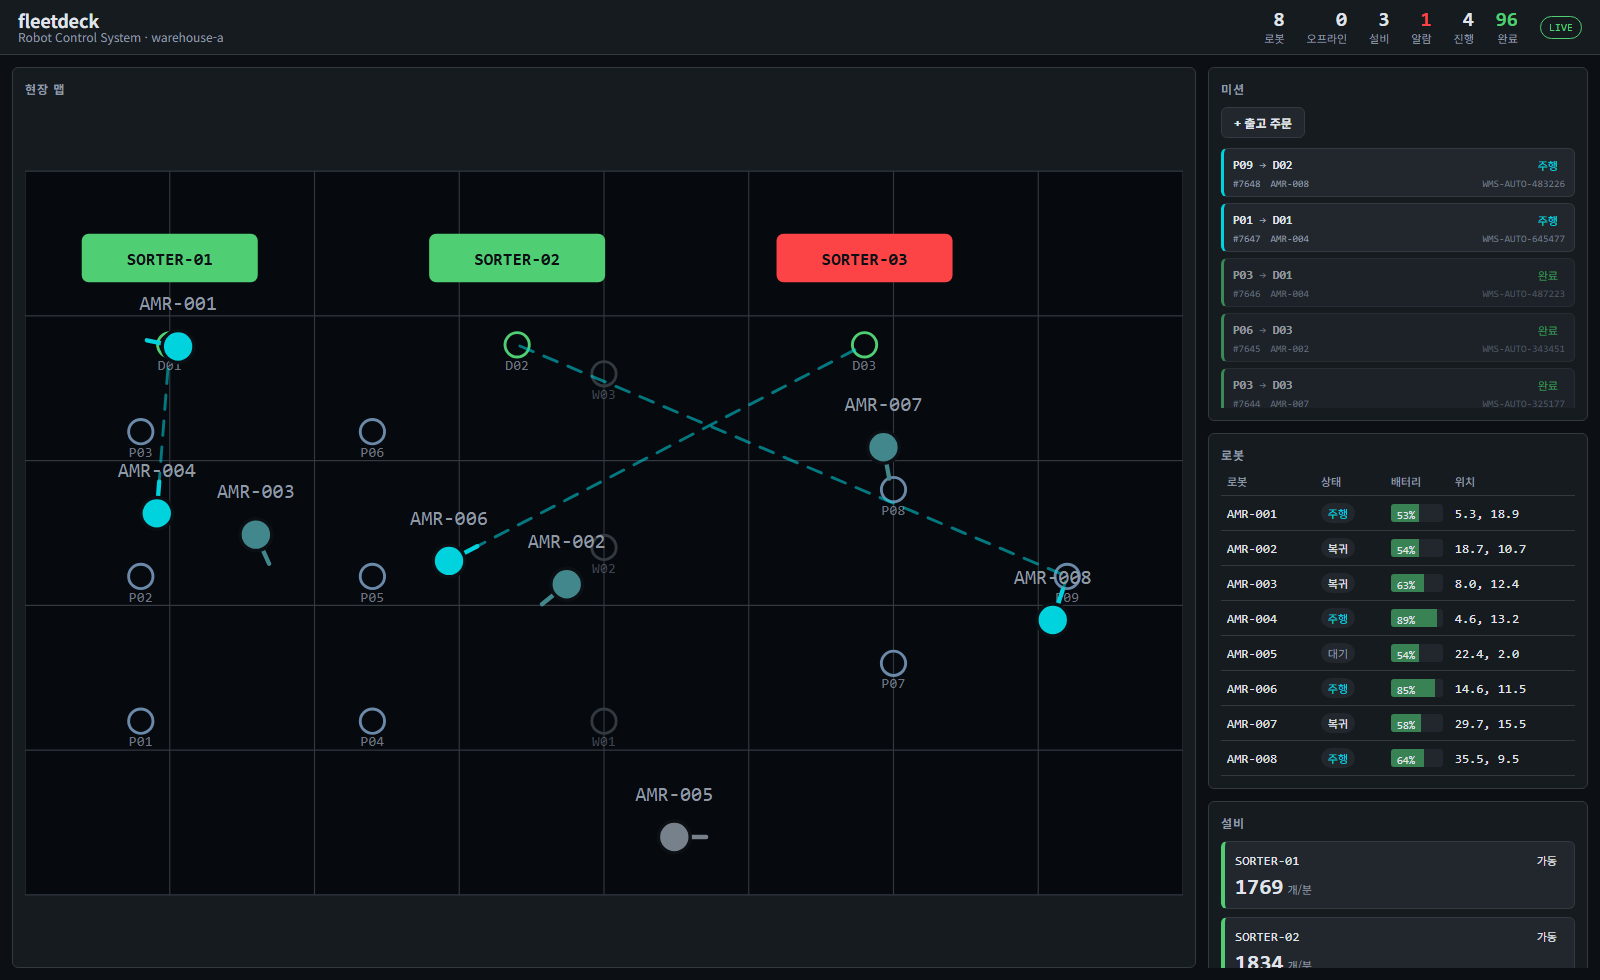
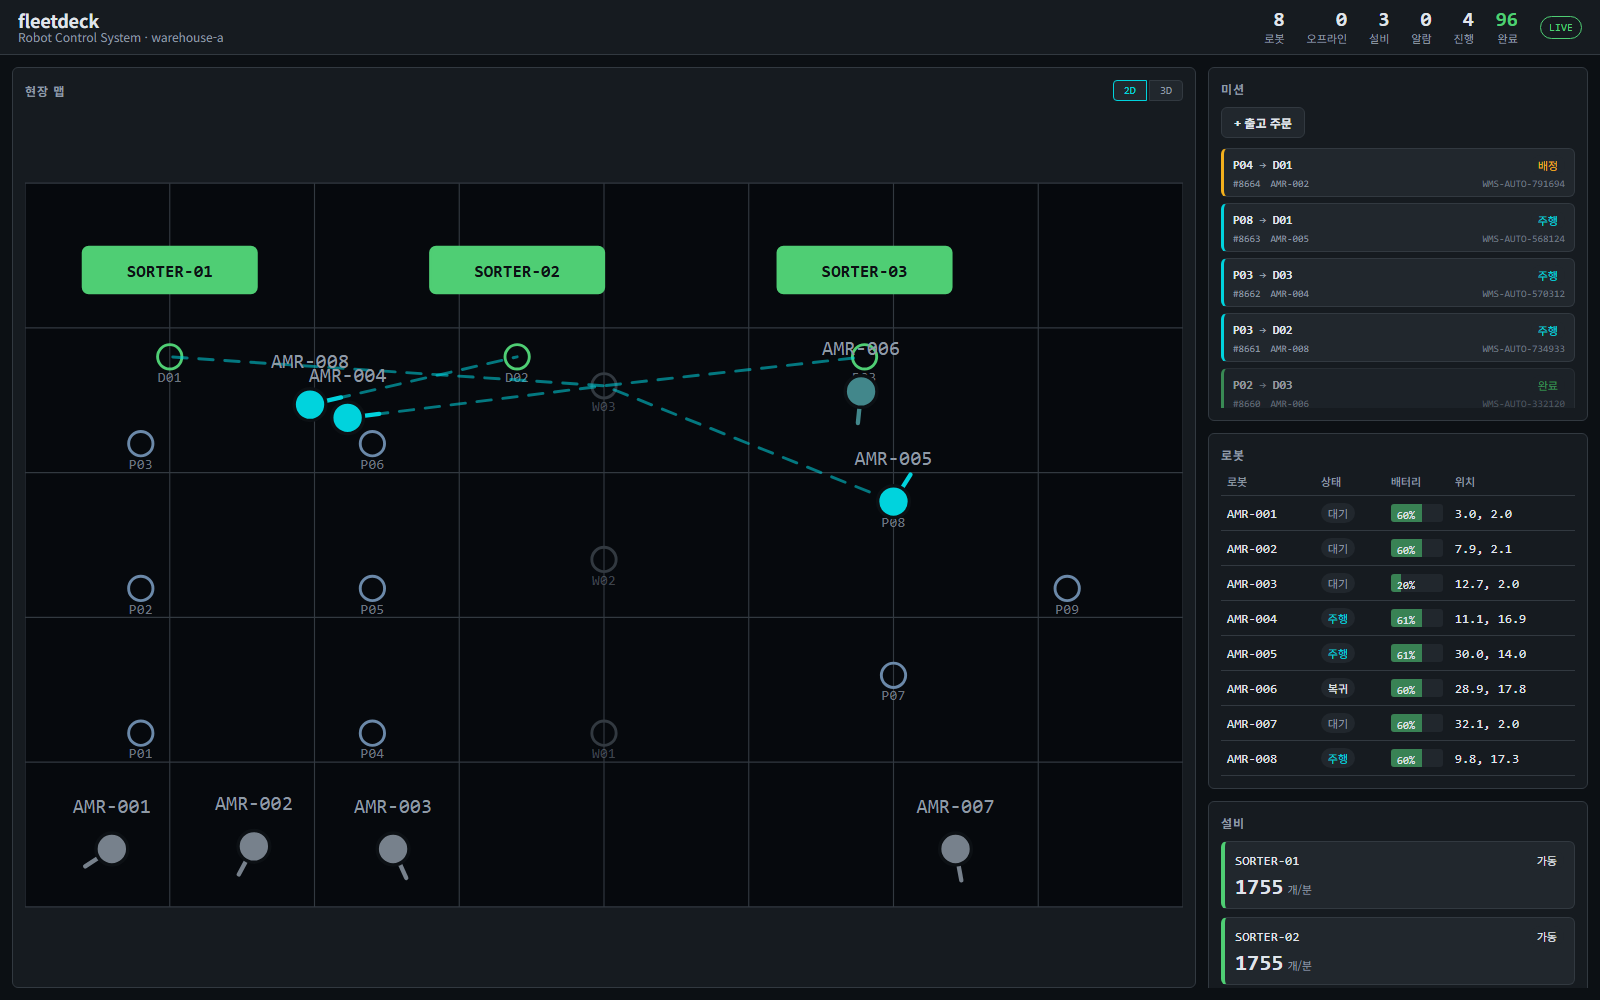
docs: 스크린샷 갱신 (2D/3D), URL 로 뷰 지정
README 이미지가 3D 뷰·차트·경유점 경로가 없던 시절 것이라 현재 상태를
반영하지 못했다. 두 장으로 다시 찍었다.

- dashboard.png: 2D 뷰. 2D/3D 토글, 대기 열 복귀, 미션 상태색, 경로 점선,
  우측에 시계열 차트까지 들어간다.
- dashboard-3d.png: 3D 뷰. 소터 박스, 로봇 실린더와 방향 원뿔, 경로 점선.

?view=3d 지원을 함께 넣었다. 헤드리스 캡처의 수단이기도 하지만
3D 뷰 링크를 그대로 공유할 수 있다는 실질적 이점이 있다.
2D 일 때는 파라미터를 지워 URL 을 깨끗하게 둔다.

캡처는 헤드리스 Chrome. 3D 는 GPU 가 없어 --enable-unsafe-swiftshader 로
소프트웨어 렌더링을 켜야 WebGL 컨텍스트가 만들어진다.

diff --git a/frontend/src/App.tsx b/frontend/src/App.tsx
@@ -13,9 +13,26 @@ const Warehouse3D = lazy(() =>
 
 type MapView = '2d' | '3d';
 
+/** 링크로 뷰를 공유할 수 있게 URL 에 담는다. ?view=3d */
+function viewFromUrl(): MapView {
+  return new URLSearchParams(window.location.search).get('view') === '3d' ? '3d' : '2d';
+}
+
+function pushViewToUrl(view: MapView) {
+  const url = new URL(window.location.href);
+  if (view === '2d') url.searchParams.delete('view');
+  else url.searchParams.set('view', view);
+  window.history.replaceState(null, '', url);
+}
+
 export function App() {
   const { robots, equipment, missions, nodes, connected, lastError } = useFleet();
-  const [view, setView] = useState<MapView>('2d');
+  const [view, setView] = useState<MapView>(viewFromUrl);
+
+  const selectView = (next: MapView) => {
+    setView(next);
+    pushViewToUrl(next);
+  };
 
   const alarms = equipment.filter((e) => e.status === 'ALARM').length;
   const offline = robots.filter((r) => !r.online).length;
@@ -55,7 +72,7 @@ export function App() {
                   type="button"
                   className={view === v ? 'is-active' : undefined}
                   aria-pressed={view === v}
-                  onClick={() => setView(v)}
+                  onClick={() => selectView(v)}
                 >
                   {v.toUpperCase()}
                 </button>

diff --git a/README.md b/README.md
@@ -10,7 +10,12 @@ Spring Boot 관제 서버가 수집·저장·중계하며 React 대시보드가 
 ![fleetdeck 관제 대시보드](docs/images/dashboard.png)
 
 맵에는 창고 노드(입고 `P*`, 투입 `D*`, 경유 `W*`), 소터 설비, 로봇의 현재 위치와
-주행 중인 경로가 함께 그려집니다. 우측은 미션 큐, 로봇 상태, 설비 처리량입니다.
+주행 중인 경로가 함께 그려집니다. 우측은 미션 큐, 로봇 상태, 설비 처리량,
+그리고 최근 30분 시계열입니다.
+
+같은 데이터를 3D 로도 봅니다. 헤더에서 전환하거나 `?view=3d` 로 바로 열 수 있습니다.
+
+![3D 뷰](docs/images/dashboard-3d.png)
 
 ```
                               ┌───────────────┐
